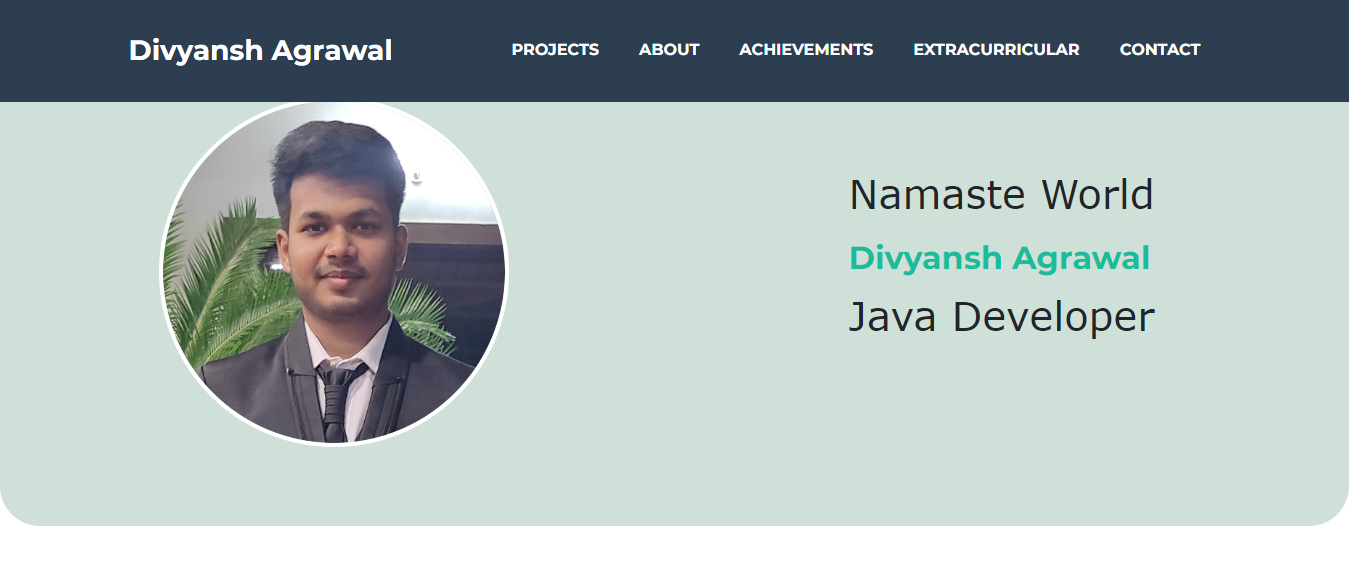
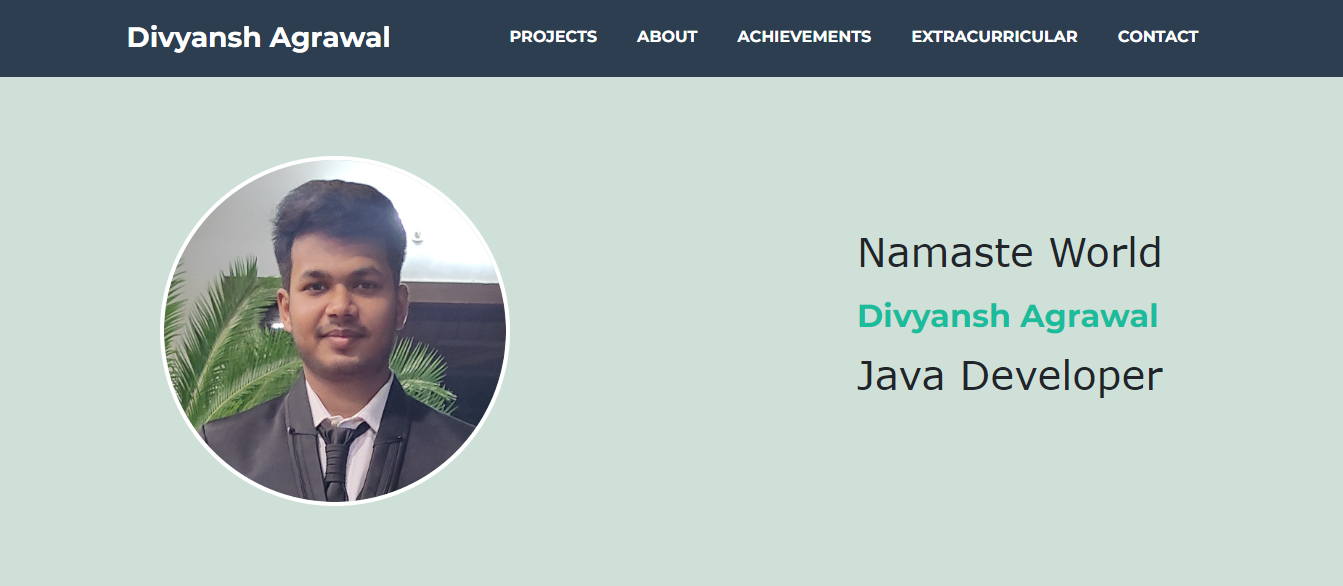
updation

diff --git a/index.html b/index.html
@@ -353,14 +353,6 @@ button{
 	
 @media only screen and (max-width: 768px) {
     /* Adjust the styles for smaller screens */
-    .home_body {
-        grid-template-rows: auto; /* Adjust the grid layout for smaller screens */
-    }
-
-    .imgdiv img {
-        width: 250px; /* Adjust the image size for smaller screens */
-        height: 250px;
-    }
 
     .name {
         font-size: 30px; /* Adjust the font size for smaller screens */
@@ -374,15 +366,13 @@ button{
 	.home_body {
                 grid-template-columns: 1fr; /* Adjust grid layout for smaller screens */
                 text-align: center; /* Center align content */
+				grid-template-rows: auto; /* Adjust the grid layout for smaller screens */			
     }
 
     .imgdiv img {
-        width: 200px; /* Adjust image size for smaller screens */
-        height: 200px;
-    }
-
-    .name {
-           font-size: 24px; /* Adjust font size for smaller screens */
+        width: 210px; /* Adjust image size for smaller screens */
+        height: 210px;
+		margin-top: 70px;
     }
 
     .aboutus {
@@ -391,7 +381,7 @@ button{
     }
 
     .about {
-        margin-top: 20px; /* Adjust the margin for smaller screens */
+        margin-top: 10px; /* Adjust the margin for smaller screens */
     }
 
     .image img {
@@ -413,7 +403,6 @@ button{
 }
 .navbar{
 	height: 80px;
-
 }
         
 </style>
@@ -532,8 +521,6 @@ button{
 	
 <!-- About Section Heading-->
 <section class="page-section" id="">
-
-	
             <div class="text-center">
                 <h2 class="page-section-heading d-inline-block text-Black">ABOUT</h2>
             </div>
@@ -550,8 +537,8 @@ button{
             </div>
 			   <div class="about">
                 
-				<div class="text-center">
-					<p class="pre-wrap lead">Dedicated and result-oriented software engineer with approximately 3
+				<div class="text-center ">
+					<p class="pre-wrap lead" style="color: black;">Dedicated and result-oriented software engineer with approximately 3
 					years of hands-on experience in Java Development. Proven track
 					record of delivering high-quality software solutions within deadlines.</p>
                 </div>
@@ -603,35 +590,61 @@ button{
             </div>
             <!-- About Section Content-->
 
-   </section>    
+</section>    
 	
-<section class="page-section bg-primary text-white mb-0" id="about">
+<section class="page-section text-black mb-0" style="background: rgba(2, 120, 62, 0.2);" id="about">
         <div class="container">
             <div class="text-center">
                 <h2 class="page-section-heading d-inline-block text-white">EXPERIENCE</h2>
-                </div>
+            </div>
                 <!-- Icon Divider-->
             <div class="divider-custom divider-light">
                 <div class="divider-custom-line"></div>
                 <div class="divider-custom-icon"><i class="fas fa-random"></i></div>
                 <div class="divider-custom-line"></div>
             </div>
+			 <p style="text-align:center ;"class="pre-wrap lead "><b>SDE-1</b></p>
+                <p style="text-align:center ;" class="pre-wrap lead"><b>AJIO</b></p>
+                <p style="text-align:center ;" class="pre-wrap lead"><b>Deccember-2022 - Present, Bengaluru , Karnataka, India </b></p>
+                <p style="text-align:center ;" class="pre-wrap lead"><b>Project Name : - VMS(AJIO B2B Engineering)</b></p>
+           
+		   <p style="text-align:left" class="lead">
+			Technology Stack:
+				Java, Spring BOOT, MongoDB, GIT, Kafka.</br>
+			1)Vendor Management System Enhancement:
+				Actively contributing to the enhancement of the Vendor Management System, a pivotal component of AJIO's digital commerce infrastructure.</br>
+			2)Multi-Tenant System Implementation:
+					Implemented and maintained a scalable Multi-Tenant system, optimizing resources to accommodate diverse user needs effectively.</br>
+			3)Event-Driven Architecture Development:
+				Spearheaded the development of an event-driven system architecture, facilitating seamless communication and coordination among microservices within AJIO's ecosystem.</br>
+			4)End-to-End API Flows Development:
+					Developed comprehensive end-to-end API flows to address various business requirements, ensuring smooth integration and optimal functionality across AJIO's digital commerce systems.</br>
+            </p>
+			
+			</br>
+			
             <p style="text-align:center ;"class="pre-wrap lead "><b>SOFTWARE ENGINEER</b></p>
                 <p style="text-align:center ;" class="pre-wrap lead"><b>IVY Software Devlopment Service</b></p>
-                <p style="text-align:center ;" class="pre-wrap lead"><b>04/jan/2021 - 22/dec/2022, Hyderabad , Telangana, India </b></p>
+                <p style="text-align:center ;" class="pre-wrap lead"><b>January-2021 - December-2022, Hyderabad , Telangana, India </b></p>
                 <p style="text-align:center ;" class="pre-wrap lead"><b>Project Name : - Affiliates(Entain Product)</b></p>
            
 		   <p style="text-align:left" class="lead">
-                1) Technology Stack :- Java , Spring MVC, oracle , RHEL / SVN. </br>
-                2) Worked in Affiliate Project.</br>
-                3) Developed a flow where affiliates can promote different brands in different countries.(End to End)</br>
-                4) Worked in creating dynamic deals where affiliates gets commissions on its player active activities.</br>
-                5) Worked on Automation of Promotions and offers through microservice. </br>
-                6) Created CSM API for Internal team for sharing specific data.(Rest API)</br>
-				7) Worked on statistic report for fetching records from multiple tables.</br>
-            </p>
-          
-          
+			Technology Stack:
+				Java, Spring MVC, REST API, OracleDb, SVN, JSP/JSTL, AJAX, PL/SQL.</br>
+			1)End-to-End Affiliate Flow:
+				Designed and implemented a seamless flow enabling affiliates to promote diverse brands across different countries. Resulted in heightened brand visibility and increased affiliate engagement.</br> 
+			2)Dynamic Deals:
+				Engineered a system for creating dynamic deals, allowing affiliates to earn commissions based on their players' active activities.</br>
+			3)Promotions Automation via Microservices:
+				Spearheaded the implementation of promotions and offers automation through microservices. Streamlined processes and bolstered the efficiency of promotional campaigns.</br> 
+			4)Migration from Struts to Spring:
+				Played a pivotal role in migrating a Struts project to the Spring framework. Ensured a smooth transition, harnessing the advantages of the Spring ecosystem.</br> 
+			5)Statistical Reporting System:
+				Developed a robust statistical reporting system capable of extracting data from multiple tables. Facilitated data-driven decision-making by offering insights into key metrics and performance indicators.</br>
+			6)CSM API Development:
+				Developed a RESTful API (CSM API) for the internal team to facilitate the sharing of specific data.</br>     
+			</p>
+         </div>         
 </section>
 		 
 
@@ -662,7 +675,7 @@ button{
 </section>
 
 
-<section class="page-section bg-primary text-white mb-0" id="certificates">
+<section class="page-section text-black mb-0" style="background: rgba(2, 120, 62, 0.2);"  id="certificates">
     <div class="container">
             <!-- About Section Heading-->
             <div class="text-center">
@@ -709,22 +722,22 @@ button{
                 <div class="divider-custom-line"></div>
             </div>
 			<p class="pre-wrap lead">
-			1) Participated in Acrothon (A Run for Social Cause) in Association with academy of Indore Marathoners.(2019).
+				1) Participated in Acrothon (A Run for Social Cause) in Association with academy of Indore Marathoners.(2019).
 			</p>
 			<p class="pre-wrap lead">
-			2)Participated in quiz on Health and Wellness from Ministry of Health and Family welfare (2019).
+				2)Participated in quiz on Health and Wellness from Ministry of Health and Family welfare (2019).
 			</p>
 			<p class="pre-wrap lead">
-			3)Participated in National Entrepreneurship Network (NEN) workshop (2017).
+				3)Participated in National Entrepreneurship Network (NEN) workshop (2017).
 			</p>
 			<p class="pre-wrap lead">
-			4)Participated in Ethical Hacking Workshop(2017).
+				4)Participated in Ethical Hacking Workshop(2017).
 			</p>
 	</div>
 </section>
       
 	  
-<section class="page-section bg-primary text-white mb-0" id="morelinks">
+<section class="page-section text-black mb-0" style="background: rgba(2, 120, 62, 0.2);" id="morelinks">
         <div class="container">
             <!-- About Section Heading-->
             <div class="text-center">
@@ -739,18 +752,17 @@ button{
             <!-- About Section Content-->
 		<div class="text-center">
 			<p class="pre-wrap ">
-			1) LeetCode   <a href="https://leetcode.com/Divyansh4pi_08/" class="link" target="_blank"> <i class="fa fa-plane"></i> </a>
+				1) LeetCode  <a href="https://leetcode.com/Divyansh4pi_08" class="link" target="_blank"> <i class="fa fa-plane" aria-hidden="true"></i></a>
 			</p>
 			<p class="pre-wrap ">
-			2) Codechef <a href="https://www.codechef.com/users/da532" class="link"  target="_blank"> <i class="fa fa-plane" aria-hidden="true"></i></a> 
+				2) Codechef <a href="https://www.codechef.com/users/da532" class="link"  target="_blank"> <i class="fa fa-plane" aria-hidden="true"></i></a> 
 			</p>
 			<p class="pre-wrap ">
-			3) HackerRank <a href="https://www.hackerrank.com/Divyansh_4pi08" class="link"  target="_blank"> <i class="fa fa-plane" aria-hidden="true"></i></a>
+				3) HackerRank <a href="https://www.hackerrank.com/Divyansh_4pi08" class="link"  target="_blank"> <i class="fa fa-plane" aria-hidden="true"></i></a>
 			</p>
 			<p class="pre-wrap ">
-			4) Hackerearth <a href="https://www.hackerearth.com/@divyansh55" class="link" target="_blank"><i class="fa fa-plane" aria-hidden="true"></i></a>
+				4) Hackerearth <a href="https://www.hackerearth.com/@divyansh55" class="link" target="_blank"><i class="fa fa-plane" aria-hidden="true"></i></a>
 			</p>
-
 		</div>
 	</div>
 </section>
